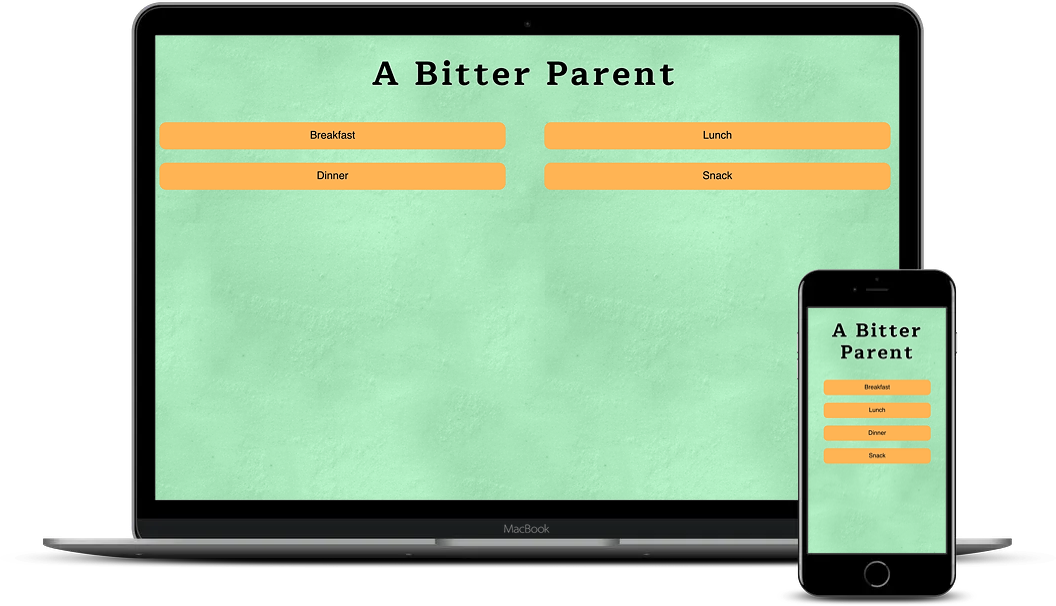
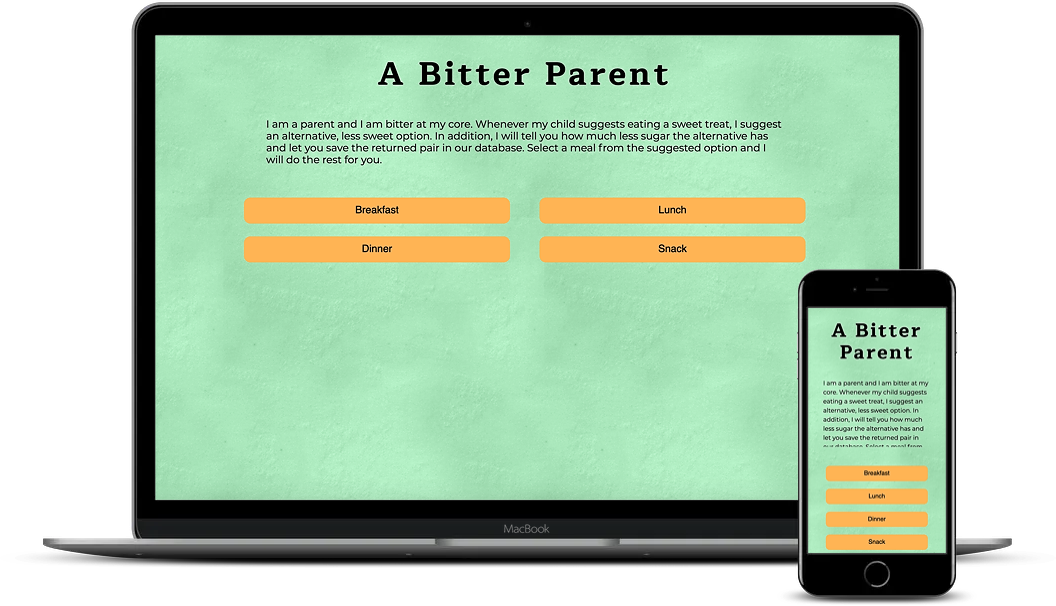
added a project to the portfolio

diff --git a/index.html b/index.html
@@ -62,7 +62,7 @@
 
                 <div class="about-me">
                     <p class="my-story">
-                        Hello again! You have probably already guessed that my name is Oleg and I am a Toronto-based web developer. One of my biggest passions lies in making the Internet the most accessible, responsive, and fun place to interact with. I build web pages and web applications from the idea to deployment. This website will demonstrate some of my recent projects and the technical skills I possess. <span>If you are in a search for a front-end / web developer, look no more. Let's work together and take the Web to the next level!</span>
+                        Hello again! You have probably already guessed that my name is Oleg and I am a Toronto-based web developer. One of my biggest passions lies in making the Internet the most accessible, responsive, and fun place to interact with. I build web pages and web applications from the idea to deployment. This website demonstrates some of my recent projects and the technical skills I possess. <span>If you are in a search for a front-end / web developer, look no more. Let's work together and take the Web to the next level!</span>
                     </p>
                     <div class="profile-image">
                         <img src="./assets/profile-picture.jpg" alt="oleg lozovatyi's portrait picture on white background">
@@ -130,7 +130,7 @@
                     </div>
                     <div class="project-description">
                         <p>
-                            Numberlicious is an application built in React that accepts a numerical input and returns an interesting fact about the given integer in three different categories: year, month/day, number. <span>React.js | Rest API | CSS | Git</span>
+                            Numberlicious is an application built in React that accepts a numerical input and returns an interesting fact about the given integer in three different categories: year, month/day, number. <span>React.js | REST API | CSS | Git</span>
                         </p>
                         <div>
                             <button id="numberlicios-github">Github</button>
@@ -145,7 +145,7 @@
                     </div>
                     <div class="project-description">
                         <p>
-                            Pirate Card Draw is an interactive game where two cards are drawn from the deck (one for the user, another one for the computer opponent). The player with the higher card gets a point. The game goes on till 5 points. Designed and developed with <a href="http://cliffstonge.com/" target="_blank">Cliff St-Onge</a>.<span>HTML5 | CSS3 | SASS | JavaScript | jQuery | Rest API | Git Collaboration</span>
+                            Pirate Card Draw is an interactive game where two cards are drawn from the deck (one for the user, another one for the computer opponent). The player with the higher card gets a point. The game goes on till 5 points. Designed and developed with <a href="http://cliffstonge.com/" target="_blank">Cliff St-Onge</a>.<span>HTML5 | CSS3 | SASS | JavaScript | jQuery | REST API | Git Collaboration</span>
                         </p>
                         <div>
                             <button id="pirate-draw-github">Github</button>
@@ -155,6 +155,21 @@
                 </div>
 
                 <div class="project project-three">
+                    <div class="project-image">
+                        <img src="./assets/a-bitter-parent-mockup.png" alt="macbook and iphone displaying title page of the supernatural hunt app">
+                    </div>
+                    <div class="project-description">
+                        <p>
+                            A Bitter Parent is an app that takes the user's choice of meal and based on the selection suggests an alternative with less amount of sugar in it.<span>HTML5 | CSS3 | JavaScript | React | REST API | Firebase | Git</span>
+                        </p>
+                        <div>
+                            <button id="a-bitter-parent-github">Github</button>
+                            <button id="a-bitter-parent-live">View live</button>
+                        </div>
+                    </div>
+                </div>
+
+                <div class="project project-four">
                     <div class="project-image">
                         <img src="./assets/supernatural-hunt-mockup.png" alt="macbook and iphone displaying title page of the supernatural hunt app">
                     </div>

diff --git a/script.js b/script.js
@@ -87,6 +87,20 @@ $(document).ready(function(){
         ) 
     })
 
+    $('#a-bitter-parent-github').on('click', function() {
+        window.open(
+            'https://github.com/oleglzvt/a-bitter-parent',
+            '_blank'
+        ) 
+    })
+
+    $('#a-bitter-parent-live').on('click', function() {
+        window.open(
+            'https://oleglzvt.github.io/a-bitter-parent/',
+            '_blank'
+        ) 
+    })
+
     $('#supernatural-github').on('click', function() {
         window.open(
             'https://github.com/oleglzvt/olegLozovatyiProjectThree',
